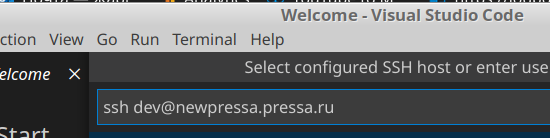
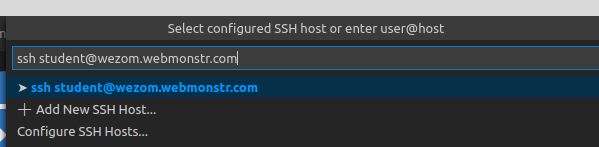
commit from zdimon77@gmail.com ----

diff --git a/ci/ci/templates/env.html b/ci/ci/templates/env.html
@@ -26,6 +26,9 @@
                         <a target=_blank href="{{ env.link_url }}">Ссылка для тестирования </a>
                         </li>
                         <li class="list-group-item">
+                        <a target=_blank href="/instr">Инструкция по работе в Vscode </a>
+                        </li>
+                        <li class="list-group-item">
                             Доступы по ssh или sftp
                         </li>
                         <li class="list-group-item">
@@ -51,44 +54,87 @@
 
                     <div class="col-8">
                         <h4>Задачи</h4>
-                         <table class="table">
-                        <thead>
-                            <tr>
-                            <th scope="col">#</th>
-                            <th scope="col">Описание</th>
-                            <th scope="col">Изображения</th>
-                            <th scope="col">Действия</th>
-                            </tr>
-                        </thead>
 
-                            {% for task in tasks %}
-                                <tr>
-                                <th scope="row">{{ task.task.id }}</th>
-                                <td>
-                                        <p slyle="font-weight: strong"><strong>{{ task.task.title }}</strong></p>
-                                        {{ task.task.desc }}
-                                        <p>
-                                        Статус: {{ task.get_status }}
-                                        </p>
-                                </td>
-                                <td>
-                                    {% for im in task.task.file_set.all %}
-                                        <p>
-                                        <p>{{ im.title }}</p>
-                                        <a target=_blank href="{{im.image.url}}">
-                                            <img title="{{ im.title }}" src="{{im.small_image_url}}" />
-                                        </a>
-                                        </p>
+
+                        <ul class="nav nav-tabs">
+                        <li class="nav-item">
+                            <a 
+                            aria-controls="task" aria-selected="true"
+                            id="task-tab" data-toggle="tab" href="#task" class="nav-link active" >Задачи</a>
+                        </li>
+                        <li class="nav-item">
+                            <a 
+                            aria-controls="commit" aria-selected="false"
+                            id="commit-tab" data-toggle="tab" href="#commit" class="nav-link" href="#">Комиты</a>
+                        </li>
+                        </ul>
+
+
+                        <div class="tab-content">
+                            <div class="tab-pane fade show active" id="task" role="tabpanel" aria-labelledby="home-tab">
+                                <table class="table">
+                                <thead>
+                                    <tr>
+                                    <th scope="col">#</th>
+                                    <th scope="col">Описание</th>
+                                    <th scope="col">Изображения</th>
+                                    <th scope="col">Действия</th>
+                                    </tr>
+                                </thead>
+
+                                    {% for task in tasks %}
+                                        <tr>
+                                        <th scope="row">{{ task.task.id }}</th>
+                                        <td>
+                                                <p slyle="font-weight: strong"><strong>{{ task.task.title }}</strong></p>
+                                                {{ task.task.desc }}
+                                                <p>
+                                                Статус: {{ task.get_status }}
+                                                </p>
+                                        </td>
+                                        <td>
+                                            {% for im in task.task.file_set.all %}
+                                                <p>
+                                                <p>{{ im.title }}</p>
+                                                <a target=_blank href="{{im.image.url}}">
+                                                    <img title="{{ im.title }}" src="{{im.small_image_url}}" />
+                                                </a>
+                                                </p>
+                                            {% endfor %}
+                                        </td>
+                                        <td>
+                                            <a class="btn btn-lg btn-outline-primary btn-block" href="/task/done/{{ task.id }}">Выполнено</a>
+                                            <a class="btn btn-lg btn-outline-warning btn-block" href="/task/del/{{ task.id }}">Отказаться</a>
+                                        </td>
+                                        </tr>
                                     {% endfor %}
-                                </td>
-                                <td>
-                                    <a class="btn btn-lg btn-outline-primary btn-block" href="/task/done/{{ task.id }}">Выполнено</a>
-                                    <a class="btn btn-lg btn-outline-warning btn-block" href="/task/del/{{ task.id }}">Отказаться</a>
-                                </td>
-                                </tr>
-                            {% endfor %}
 
-                        </table>
+                                </table>
+                            </div>
+                            <div class="tab-pane fade show" id="commit" role="tabpanel" aria-labelledby="home-tab">
+                                <table class="table">
+                                <thead>
+                                    <tr>
+                                    <th scope="col">#</th>
+                                    <th scope="col">Описание</th>
+                                    <th scope="col">Дата</th>
+                                    </tr>
+                                    {% for commit in commits %}
+                                        <tr>
+                                            <td>
+                                                {{ commit.id }}
+                                            </td>
+                                            <td>
+                                                {{ commit.title }}
+                                            </td>
+                                            <td>
+                                                {{ commit.created_at }}
+                                            </td>
+                                        </tr>
+                                    {% endfor %}
+                                </thead>
+                                </table>
+                            </div>
                     </div>
                 
             </div>

diff --git a/ci/ci/templates/instr.html b/ci/ci/templates/instr.html
@@ -1,0 +1,76 @@
+ 
+ {% extends 'base.html' %}
+ {% block content %}
+    <div class="container">
+        <h1> Инструкция работы в Vscode  </h1>
+        <h4>Работа по протоколу sftp</h4>
+        <p>
+            Для работы по sftp необходимо установить соответствующий плагин.
+        </p>
+         <p>
+            <img src="/static/2.png" />
+         </p>   
+         <p>
+            После установки нажимаем комбинацию Ctrl+Shift+p и набираем sftp и далее пункт SFTP Config
+         </p>
+         <p>
+            <img src="/static/10.png" />
+         </p> 
+         <p>
+            Прописываем настройки и нажимаем иконку сбоку.
+         </p>
+
+         <p>
+            <img src="/static/3.png" />
+         </p>   
+         <p>
+            Для того, чтобы начать редактирование необходимо вызвать контекстное меню правой кнопкой мыши и выбрать Edit in Local.
+         </p>
+         <p>
+            <img src="/static/4.png" />
+         </p>   
+         <h4>Работа по протоколу ssh</h4>
+        <p>
+            Для работы по ssh необходимо установить соответствующий плагин.
+        </p>
+         <p>
+            <img src="/static/5.png" />
+         </p>
+         <p>
+            После установки нажимаем зеленую иконку в левом нижнем углу и далее пункт Add new SSH Host
+         </p>   
+         <p>
+            <img src="/static/6.png" />
+         </p>  
+         <p>
+            Вводим адрес сервера и порта.
+         </p>
+         <p>
+            <img src="/static/13.png" />
+         </p>
+         <p>
+            Выбираем куда сохранить настройки.
+         </p>
+         <p>
+            <img src="/static/14.png" />
+         </p>
+         <p>
+            Вводим пароль 123.
+         </p>         
+         <p>
+            <img src="/static/8.png" />
+         </p>  
+         <p>
+            Выбираем Open Folder через верхнюю иконку.
+         </p>  
+         <p>
+            Находим каталог backend.
+         </p>
+         <p>
+            <img src="/static/9.png" />
+         </p>  
+         <p>
+            <img src="/static/11.png" />
+         </p>  
+    </div>
+{% endblock %}

diff --git a/ci/ci/templates/base.html b/ci/ci/templates/base.html
@@ -52,6 +52,7 @@
     </div>
 
     
-   
+   <script src="https://code.jquery.com/jquery-3.5.1.slim.min.js" integrity="sha384-DfXdz2htPH0lsSSs5nCTpuj/zy4C+OGpamoFVy38MVBnE+IbbVYUew+OrCXaRkfj" crossorigin="anonymous"></script>
+<script src="https://cdn.jsdelivr.net/npm/bootstrap@4.6.0/dist/js/bootstrap.bundle.min.js" integrity="sha384-Piv4xVNRyMGpqkS2by6br4gNJ7DXjqk09RmUpJ8jgGtD7zP9yug3goQfGII0yAns" crossorigin="anonymous"></script>
 </body>
 </html>

diff --git a/ci/ci/main/views.py b/ci/ci/main/views.py
@@ -4,7 +4,7 @@ from django.shortcuts import redirect
 from django.conf import settings
 from .models import Env
 from .tasks import normalize_email, git_push
-from .models import Env, Task, Task2User
+from .models import Env, Task, Task2User, Commit
 from git import Repo
 from django.shortcuts import redirect
 from django.contrib.auth import logout
@@ -27,6 +27,7 @@ def env(request):
         error = 'Ваша Рабочая область пока не создана.'
 
     tasks = Task2User.objects.filter(user=request.user)
+    commits = Commit.objects.filter(user=request.user)
 
     if request.method == 'POST':
         form = EnvForm(request.POST)
@@ -41,13 +42,17 @@ def env(request):
     else:
         form = EnvForm(initial={'email': request.user.username})
 
-    return render(request, 'env.html', {"error": error, "env": env, "form": form, "message": message, "tasks": tasks})
+    return render(request, 'env.html', {"error": error, "env": env, "form": form, "message": message, "tasks": tasks, "commits": commits})
 
 
 def index(request):
     if request.user.is_authenticated:
         return redirect('/env')
     return render(request, 'index.html')
+
+
+def instr(request):
+    return render(request, 'instr.html')
 
 
 def tasks(request):
@@ -99,14 +104,20 @@ def done_task(request, id):
 
 
 def end_task(request, id):
-    task = Task2User.objects.get(pk=id)
-    env = Env.objects.get(user=request.user)
-    git_push.delay(env.id, id)
+
     #origin = repo.remote(name='origin')
     # origin.push()
+    task = Task2User.objects.get(pk=id)
     if task.user == request.user:
+        env = Env.objects.get(user=request.user)
+        git_push.delay(env.id, id)
         task.is_done = True
         task.save()
+        c = Commit()
+        c.user = request.user
+        c.task = task.task
+        c.title = task.task.title
+        c.save()
         messages.success(
-            request, 'Задача выполнена и отправлена на проверку.')
+            request, 'Спасибо! Ваши изменения зафиксированы и отправлены на проверку.')
     return redirect('/env')

diff --git a/ci/ci/main/migrations/0009_commit.py b/ci/ci/main/migrations/0009_commit.py
@@ -1,0 +1,25 @@
+# Generated by Django 3.1.7 on 2021-04-02 18:39
+
+from django.db import migrations, models
+import django.db.models.deletion
+
+
+class Migration(migrations.Migration):
+
+    dependencies = [
+        ('account', '0002_auto_20210402_1621'),
+        ('main', '0008_task2user_is_done'),
+    ]
+
+    operations = [
+        migrations.CreateModel(
+            name='Commit',
+            fields=[
+                ('id', models.AutoField(auto_created=True, primary_key=True, serialize=False, verbose_name='ID')),
+                ('created_at', models.DateTimeField(auto_now_add=True)),
+                ('title', models.CharField(max_length=250, verbose_name='Заголовок')),
+                ('task', models.ForeignKey(on_delete=django.db.models.deletion.CASCADE, to='main.task', verbose_name='Задача')),
+                ('user', models.ForeignKey(on_delete=django.db.models.deletion.CASCADE, to='account.customer', verbose_name='Пользователь')),
+            ],
+        ),
+    ]

diff --git a/ci/ci/ci/urls.py b/ci/ci/ci/urls.py
@@ -17,7 +17,7 @@ from django.conf.urls.static import static
 from django.conf import settings
 from django.contrib import admin
 from django.urls import path, include
-from main.views import index, done, logout_view, env, tasks, take_task, del_task, done_task, end_task
+from main.views import index, done, logout_view, env, tasks, take_task, del_task, done_task, end_task, instr
 
 urlpatterns = [
     path('', index),
@@ -27,6 +27,7 @@ urlpatterns = [
     path('logout', logout_view),
     path('env', env),
     path('tasks', tasks),
+    path('instr', instr),
     path('task/take/<int:id>', take_task),
     path('task/del/<int:id>', del_task),
     path('task/done/<int:id>', done_task),

diff --git a/ci/ci/main/models.py b/ci/ci/main/models.py
@@ -96,3 +96,12 @@ class Task2User(models.Model):
             return 'Выполнено'
         else:
             return 'В работе'
+
+
+class Commit(models.Model):
+    user = models.ForeignKey("account.Customer", verbose_name=_(
+        "Пользователь"), on_delete=models.CASCADE)
+    task = models.ForeignKey(Task, verbose_name=_(
+        "Задача"), on_delete=models.CASCADE)
+    created_at = models.DateTimeField(auto_now_add=True)
+    title = models.CharField(verbose_name='Заголовок', max_length=250)

diff --git a/ci/ci/main/admin.py b/ci/ci/main/admin.py
@@ -1,6 +1,6 @@
 from django.contrib import admin
 
-from .models import Env, Task, File, Maket, Task2User
+from .models import Env, Task, File, Maket, Task2User, Commit
 
 
 class FileInline(admin.TabularInline):
@@ -28,3 +28,8 @@ class TaskAdmin(admin.ModelAdmin):
 @admin.register(Task2User)
 class Task2UserAdmin(admin.ModelAdmin):
     list_display = ['user', 'task']
+
+
+@admin.register(Commit)
+class CommitAdmin(admin.ModelAdmin):
+    list_display = ['title', 'user', 'task', 'created_at']
